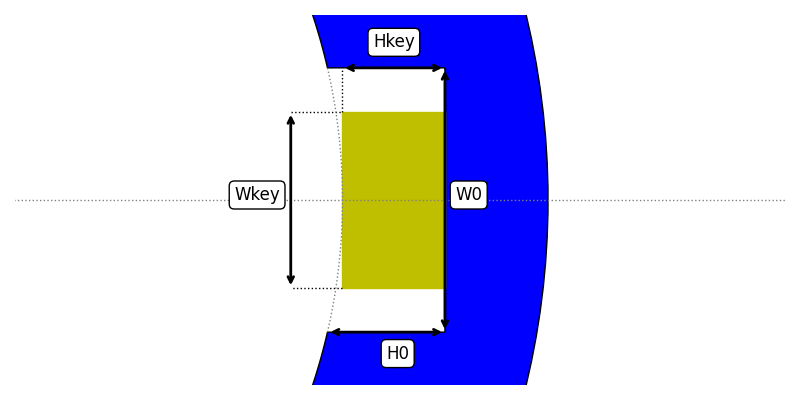
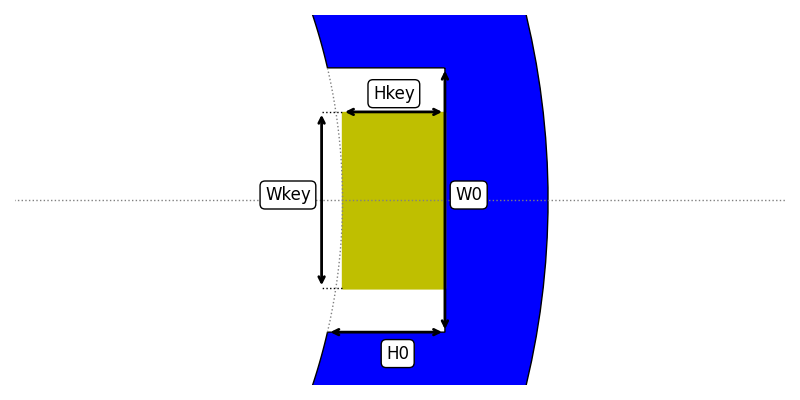
[CC] correction schematics and add test for key

Changed region(s): [[0.2812, 0.06, 0.5625, 0.72]]

diff --git a/Tests/GUI/Dialog/DMachineSetup/PMSlot/test_PMSlot10.py b/Tests/GUI/Dialog/DMachineSetup/PMSlot/test_PMSlot10.py
@@ -120,6 +120,24 @@ class TestPMSlot10(object):
 
     def test_set_Wkey(self):
         """Check that the Widget allow to update Wkey"""
+
+        # test if widget is disabled if notch_obj=None
+        self.test_obj = LamSlotMag(Rint=0.1, Rext=0.2)
+        self.test_obj.slot = SlotM10(H0=0.10, W0=0.13, Wmag=0.14, Hmag=0.15)
+        self.material_dict = {LIB_KEY: list(), MACH_KEY: list()}
+        self.mat1 = Material(name="Steel1")
+        notch = Notch(self.mat1, None, None)
+        self.widget = PMSlot10(
+            self.test_obj, material_dict=self.material_dict, notch_obj=None
+        )
+
+        assert self.widget.unit_Wkey.isEnabled() == False
+        assert self.widget.in_Wkey.isEnabled() == False
+        assert self.widget.lf_Wkey.isEnabled() == False
+        assert self.widget.unit_Wmag.isEnabled() == True
+        assert self.widget.in_Wmag.isEnabled() == True
+        assert self.widget.lf_Wmag.isEnabled() == True
+
         self.test_obj = LamSlotMag(Rint=0.1, Rext=0.2)
         self.test_obj.slot = SlotM10(H0=0.10, W0=0.13, Wmag=0.14, Hmag=0.15)
         self.material_dict = {LIB_KEY: list(), MACH_KEY: list()}
@@ -128,9 +146,19 @@ class TestPMSlot10(object):
         self.widget = PMSlot10(
             self.test_obj, material_dict=self.material_dict, notch_obj=notch
         )
+        self.widget.g_key.setChecked(False)
+        assert self.widget.unit_Wmag.isHidden() == True
+        assert self.widget.in_Wmag.isHidden() == True
+        assert self.widget.lf_Wmag.isHidden() == True
 
+        assert self.widget.unit_Wkey.isEnabled() == False
+        assert self.widget.in_Wkey.isEnabled() == False
+        assert self.widget.lf_Wkey.isEnabled() == False
         self.widget.g_key.setChecked(True)
         assert self.widget.g_key.isChecked()
+        assert self.widget.unit_Wkey.isEnabled() == True
+        assert self.widget.in_Wkey.isEnabled() == True
+        assert self.widget.lf_Wkey.isEnabled() == True
 
         # Check Unit
         assert self.widget.unit_Wkey.text() == "[m]"
@@ -149,10 +177,36 @@ class TestPMSlot10(object):
         self.mat1 = Material(name="Steel1")
         notch = Notch(self.mat1, None, None)
         self.widget = PMSlot10(
+            self.test_obj, material_dict=self.material_dict, notch_obj=None
+        )
+
+        assert self.widget.unit_Hkey.isEnabled() == False
+        assert self.widget.in_Hkey.isEnabled() == False
+        assert self.widget.lf_Hkey.isEnabled() == False
+        assert self.widget.unit_Hmag.isEnabled() == True
+        assert self.widget.in_Hmag.isEnabled() == True
+        assert self.widget.lf_Hmag.isEnabled() == True
+        self.test_obj = LamSlotMag(Rint=0.1, Rext=0.2)
+        self.test_obj.slot = SlotM10(H0=0.10, W0=0.13, Wmag=0.14, Hmag=0.15)
+        self.material_dict = {LIB_KEY: list(), MACH_KEY: list()}
+        self.mat1 = Material(name="Steel1")
+        notch = Notch(self.mat1, None, None)
+        self.widget = PMSlot10(
             self.test_obj, material_dict=self.material_dict, notch_obj=notch
         )
+        self.widget.g_key.setChecked(False)
+        assert self.widget.unit_Hmag.isHidden() == True
+        assert self.widget.in_Hmag.isHidden() == True
+        assert self.widget.lf_Hmag.isHidden() == True
+
+        assert self.widget.unit_Hkey.isEnabled() == False
+        assert self.widget.in_Hkey.isEnabled() == False
+        assert self.widget.lf_Hkey.isEnabled() == False
         self.widget.g_key.setChecked(True)
         assert self.widget.g_key.isChecked()
+        assert self.widget.unit_Hkey.isEnabled() == True
+        assert self.widget.in_Hkey.isEnabled() == True
+        assert self.widget.lf_Hkey.isEnabled() == True
         # Check Unit
         assert self.widget.unit_Hkey.text() == "[m]"
         # Change value in GUI
@@ -170,4 +224,5 @@ if __name__ == "__main__":
     a.test_init()
     a.test_output_txt()
     a.teardown_class()
+    a.test_set_Wkey()
     print("Done")

diff --git a/Tests/GUI/Dialog/DMachineSetup/PMSlot/test_PMSlot11.py b/Tests/GUI/Dialog/DMachineSetup/PMSlot/test_PMSlot11.py
@@ -203,11 +203,37 @@ class TestPMSlot11(object):
         self.mat1 = Material(name="Steel1")
         notch = Notch(self.mat1, None, None)
         self.widget = PMSlot11(
-            self.test_obj, material_dict=self.material_dict, notch_obj=notch
+            self.test_obj, material_dict=self.material_dict, notch_obj=None
         )
 
+        assert self.widget.c_Wkey_unit.isEnabled() == False
+        assert self.widget.in_Wkey.isEnabled() == False
+        assert self.widget.lf_Wkey.isEnabled() == False
+        assert self.widget.c_Wmag_unit.isEnabled() == True
+        assert self.widget.in_Wmag.isEnabled() == True
+        assert self.widget.lf_Wmag.isEnabled() == True
+
+        self.test_obj = LamSlotMag(Rint=0.1, Rext=0.2)
+        self.test_obj.slot = SlotM11(H0=0.10, W0=0.13, Wmag=0.14, Hmag=0.15)
+        self.material_dict = {LIB_KEY: list(), MACH_KEY: list()}
+        self.mat1 = Material(name="Steel1")
+        notch = Notch(self.mat1, None, None)
+        self.widget = PMSlot11(
+            self.test_obj, material_dict=self.material_dict, notch_obj=notch
+        )
+        self.widget.g_key.setChecked(False)
+        assert self.widget.c_Wmag_unit.isHidden() == True
+        assert self.widget.in_Wmag.isHidden() == True
+        assert self.widget.lf_Wmag.isHidden() == True
+
+        assert self.widget.c_Wkey_unit.isEnabled() == False
+        assert self.widget.in_Wkey.isEnabled() == False
+        assert self.widget.lf_Wkey.isEnabled() == False
         self.widget.g_key.setChecked(True)
         assert self.widget.g_key.isChecked()
+        assert self.widget.c_Wkey_unit.isEnabled() == True
+        assert self.widget.in_Wkey.isEnabled() == True
+        assert self.widget.lf_Wkey.isEnabled() == True
 
         self.widget.c_Wkey_unit.setCurrentIndex(0)
         assert self.widget.c_Wkey_unit.currentText() == "rad"
@@ -231,10 +257,38 @@ class TestPMSlot11(object):
         self.mat1 = Material(name="Steel1")
         notch = Notch(self.mat1, None, None)
         self.widget = PMSlot11(
+            self.test_obj, material_dict=self.material_dict, notch_obj=None
+        )
+
+        assert self.widget.unit_Hkey.isEnabled() == False
+        assert self.widget.in_Hkey.isEnabled() == False
+        assert self.widget.lf_Hkey.isEnabled() == False
+        assert self.widget.unit_Hmag.isEnabled() == True
+        assert self.widget.in_Hmag.isEnabled() == True
+        assert self.widget.lf_Hmag.isEnabled() == True
+
+        self.test_obj = LamSlotMag(Rint=0.1, Rext=0.2)
+        self.test_obj.slot = SlotM11(H0=0.10, W0=0.13, Wmag=0.14, Hmag=0.15)
+        self.material_dict = {LIB_KEY: list(), MACH_KEY: list()}
+        self.mat1 = Material(name="Steel1")
+        notch = Notch(self.mat1, None, None)
+        self.widget = PMSlot11(
             self.test_obj, material_dict=self.material_dict, notch_obj=notch
         )
+        self.widget.g_key.setChecked(False)
+        assert self.widget.unit_Hmag.isHidden() == True
+        assert self.widget.in_Hmag.isHidden() == True
+        assert self.widget.lf_Hmag.isHidden() == True
+
+        assert self.widget.unit_Hkey.isEnabled() == False
+        assert self.widget.in_Hkey.isEnabled() == False
+        assert self.widget.lf_Hkey.isEnabled() == False
         self.widget.g_key.setChecked(True)
         assert self.widget.g_key.isChecked()
+        assert self.widget.unit_Hkey.isEnabled() == True
+        assert self.widget.in_Hkey.isEnabled() == True
+        assert self.widget.lf_Hkey.isEnabled() == True
+
         # Check Unit
         assert self.widget.unit_Hkey.text() == "[m]"
         # Change value in GUI
@@ -249,8 +303,8 @@ if __name__ == "__main__":
     a = TestPMSlot11()
     a.setup_class()
     a.setup_method()
-    a.test_check()
     a.test_change_unit_W0()
     a.test_change_unit_Wmag()
+    a.test_check()
     a.teardown_class()
     print("Done")

diff --git a/pyleecan/Methods/Slot/SlotM10/plot_schematics.py b/pyleecan/Methods/Slot/SlotM10/plot_schematics.py
@@ -160,8 +160,8 @@ def plot_schematics(
                 # WKey
                 plot_quote(
                     Z1=point_dict["ZM2"],
-                    Zlim1=point_dict["ZM2"] - sign * 0.5 * self.Hmag,
-                    Zlim2=point_dict["ZM3"] - sign * 0.5 * self.Hmag,
+                    Zlim1=point_dict["ZM2"] - sign * 0.2 * self.Hmag,
+                    Zlim2=point_dict["ZM3"] - sign * 0.2 * self.Hmag,
                     Z2=point_dict["ZM3"],
                     offset_label=-0.55 * self.Hmag,
                     fig=fig,
@@ -169,25 +169,24 @@ def plot_schematics(
                     label="Wkey",
                 )
                 # HKey
-                Zlim1 = point_dict["Z3"] - sign * self.Hmag
-                Zlim2 = point_dict["Z3"]
-                plot_quote(
-                    point_dict["ZM3"],
-                    Zlim1,
-                    Zlim2,
-                    point_dict["ZM4"],
-                    offset_label=1j * 0.2 * self.Hmag - 0.2 * self.Hmag,
+                line = Segment(point_dict["ZM3"], point_dict["ZM4"])
+                line.plot(
                     fig=fig,
                     ax=ax,
+                    color=ARROW_COLOR,
+                    linewidth=ARROW_WIDTH,
                     label="Hkey",
+                    offset_label=1j * 0.05 * self.W0 - 0.2 * self.Hmag,
+                    is_arrow=True,
+                    fontsize=SC_FONT_SIZE,
                 )
 
             elif type_add_active != 0:
                 # Wmag
                 plot_quote(
                     Z1=point_dict["ZM2"],
-                    Zlim1=point_dict["ZM2"] - sign * 0.5 * self.Hmag,
-                    Zlim2=point_dict["ZM3"] - sign * 0.5 * self.Hmag,
+                    Zlim1=point_dict["ZM2"] - sign * 0.2 * self.Hmag,
+                    Zlim2=point_dict["ZM3"] - sign * 0.2 * self.Hmag,
                     Z2=point_dict["ZM3"],
                     offset_label=0.25 * self.Hmag,
                     fig=fig,
@@ -195,17 +194,16 @@ def plot_schematics(
                     label="Wmag",
                 )
                 # Hmag
-                Zlim1 = point_dict["Z3"] - sign * self.Hmag
-                Zlim2 = point_dict["Z3"]
-                plot_quote(
-                    point_dict["ZM3"],
-                    Zlim1,
-                    Zlim2,
-                    point_dict["ZM4"],
-                    offset_label=1j * 0.2 * self.Hmag,
+                line = Segment(point_dict["ZM3"], point_dict["ZM4"])
+                line.plot(
                     fig=fig,
                     ax=ax,
+                    color=ARROW_COLOR,
+                    linewidth=ARROW_WIDTH,
                     label="Hmag",
+                    offset_label=1j * 0.05 * self.W0 - 0.2 * self.Hmag,
+                    is_arrow=True,
+                    fontsize=SC_FONT_SIZE,
                 )
 
         if is_add_main_line:

diff --git a/pyleecan/GUI/Dialog/DMachineSetup/SMSlot/PMSlot10/PMSlot10.py b/pyleecan/GUI/Dialog/DMachineSetup/SMSlot/PMSlot10/PMSlot10.py
@@ -24,7 +24,7 @@ class PMSlot10(Gen_PMSlot10, QWidget):
     notch_name = "Rectangular"
     slot_type = SlotM10
 
-    def __init__(self, lamination=None, material_dict=None, notch_obj=None):
+    def __init__(self, lamination=None, notch_obj=None, material_dict=None):
         """Initialize the widget according to lamination
 
         Parameters
@@ -69,6 +69,7 @@ class PMSlot10(Gen_PMSlot10, QWidget):
             wid_list += [self.txt_constraint]  # Constraint Wmag < W0
             for wid in wid_list:
                 wid.hide()
+
             # Set values for check
             self.slot.Hmag = 0
             self.slot.Wmag = 0
@@ -112,6 +113,7 @@ class PMSlot10(Gen_PMSlot10, QWidget):
                 self.notch_obj.key_mat = None
             else:
                 self.w_key_mat.def_mat = "Steel1"
+
             self.set_key()
 
         else:  # magnet case

diff --git a/pyleecan/GUI/Dialog/DMachineSetup/SMSlot/PMSlot11/PMSlot11.py b/pyleecan/GUI/Dialog/DMachineSetup/SMSlot/PMSlot11/PMSlot11.py
@@ -55,7 +55,7 @@ class PMSlot11(Gen_PMSlot11, QWidget):
         # Set FloatEdit unit
         self.lf_W0.unit = "rad"
         self.lf_H0.unit = "m"
-        
+
         # Set unit name (m ou mm)
         self.unit_H0.setText("[" + gui_option.unit.get_m_name() + "]")
 
@@ -111,7 +111,7 @@ class PMSlot11(Gen_PMSlot11, QWidget):
         else:
             self.lf_Wmag.unit = "rad"
             self.lf_Hmag.unit = "m"
-            
+
             # Set unit name (m ou mm)
             self.unit_Hmag.setText("[" + gui_option.unit.get_m_name() + "]")
 
